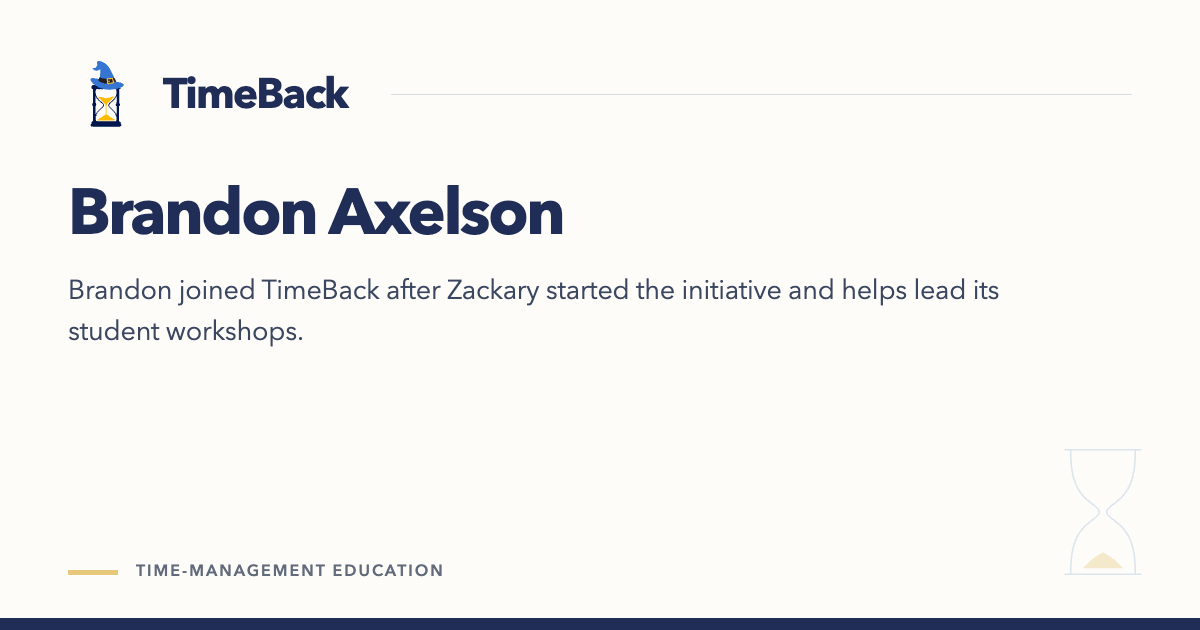
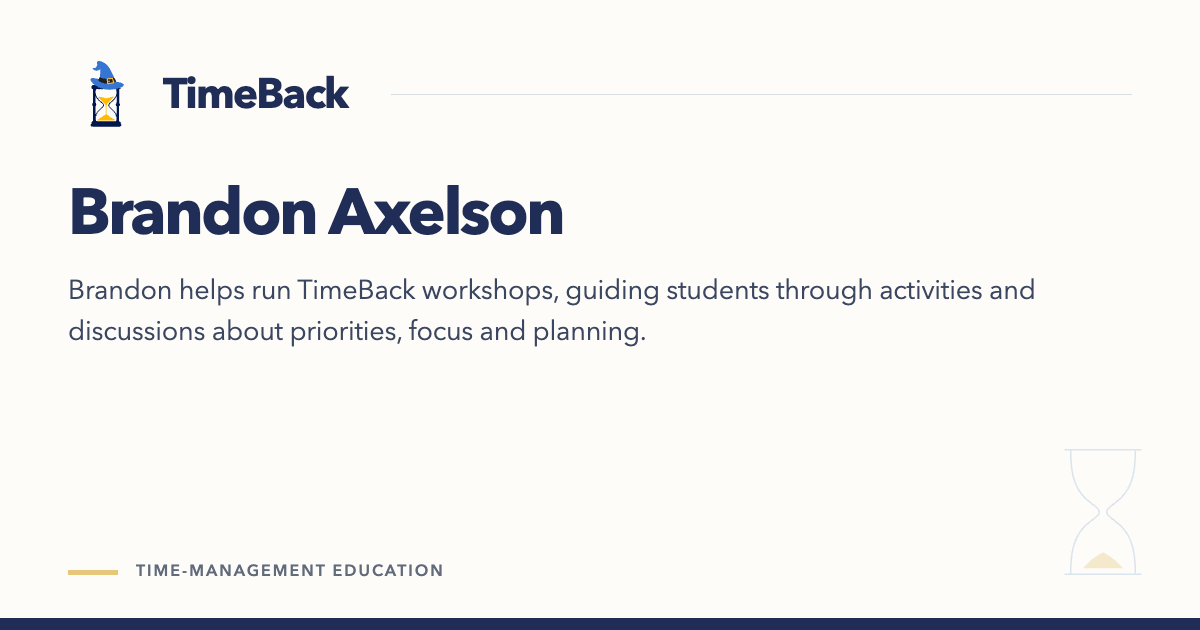
Update team roles and add Eric and Logan

Changed region(s): [[0.1542, 0.4222, 0.8633, 0.4825], [0.0617, 0.5127, 0.555, 0.5429]]

diff --git a/about/zackary-xu/index.html b/about/zackary-xu/index.html
@@ -2,7 +2,7 @@
 <html lang="en"><head><meta charset="utf-8"><meta name="viewport" content="width=device-width, initial-scale=1"><meta name="robots" content="index,follow,max-image-preview:large"><title>Zackary Xu · TimeBack</title><meta name="description" content="Zackary started TimeBack and brought together its team to make time-management education accessible to more young people."><meta name="theme-color" content="#202e57"><meta property="og:title" content="Zackary Xu · TimeBack"><meta property="og:description" content="Zackary started TimeBack and brought together its team to make time-management education accessible to more young people."><meta property="og:type" content="website"><link rel="icon" type="image/svg+xml" href="/assets/timeback-logo.svg"><link rel="stylesheet" href="/assets/site.css?v=ac8a8d66ccf2"><script src="/assets/site.js?v=d495cea66d2d" defer></script><meta property="og:site_name" content="TimeBack"><meta property="og:locale" content="en_US"><meta property="og:image" content="https://jointimeback.org/assets/social/about-zackary-xu.png"><meta property="og:image:width" content="1200"><meta property="og:image:height" content="630"><meta property="og:image:type" content="image/png"><meta property="og:image:alt" content="Zackary Xu · TimeBack: Zackary started TimeBack and brought together its team to make time-management education accessible to more young people."><meta name="twitter:card" content="summary_large_image"><meta name="twitter:title" content="Zackary Xu · TimeBack"><meta name="twitter:description" content="Zackary started TimeBack and brought together its team to make time-management education accessible to more young people."><meta name="twitter:image" content="https://jointimeback.org/assets/social/about-zackary-xu.png"><meta name="twitter:image:alt" content="Zackary Xu · TimeBack: Zackary started TimeBack and brought together its team to make time-management education accessible to more young people."><link rel="icon" type="image/png" sizes="32x32" href="/assets/icons/favicon-32.png"><link rel="apple-touch-icon" sizes="180x180" href="/assets/icons/apple-touch-icon.png"><link rel="canonical" href="https://jointimeback.org/about/zackary-xu/"><meta property="og:url" content="https://jointimeback.org/about/zackary-xu/"><script type="application/ld+json">{"@context": "https://schema.org", "@graph": [{"@type": "Organization", "@id": "https://jointimeback.org/#organization", "name": "TimeBack", "url": "https://jointimeback.org/", "email": "zackaryxu@jointimeback.org", "logo": "https://jointimeback.org/assets/icons/organization.png"}, {"@type": "WebSite", "@id": "https://jointimeback.org/#website", "url": "https://jointimeback.org/", "name": "TimeBack", "publisher": {"@id": "https://jointimeback.org/#organization"}, "inLanguage": "en"}, {"@type": "WebPage", "@id": "https://jointimeback.org/about/zackary-xu/#webpage", "url": "https://jointimeback.org/about/zackary-xu/", "name": "Zackary Xu · TimeBack", "description": "Zackary started TimeBack and brought together its team to make time-management education accessible to more young people.", "isPartOf": {"@id": "https://jointimeback.org/#website"}, "about": {"@id": "https://jointimeback.org/#organization"}, "inLanguage": "en"}]}</script></head>
 <body class="page-about/zackary-xu"><a class="skip-link" href="#main">Skip to content</a>
 <header class="site-header"><div class="header-inner"><a class="brand" href="/" aria-label="TimeBack home"><img src="/assets/timeback-logo.svg" width="40" height="48" alt="">TimeBack</a><nav class="desktop-nav" aria-label="Main navigation"><a href="/about/" class="nav-section-current">Our Team</a><a href="/work/">Community Highlights</a><details class="nav-group"><summary>For Organizations<span class="nav-chevron" aria-hidden="true"></span></summary><div class="nav-submenu"><a href="/host/">Work with TimeBack</a><a href="/approach/">Our Approach</a></div></details><a href="/chapters/" class="nav-cta">Get Involved</a></nav><details class="mobile-menu"><summary>Menu</summary><nav aria-label="Mobile navigation"><a href="/about/" class="nav-section-current">Our Team</a><a href="/work/">Community Highlights</a><details class="nav-group"><summary>For Organizations<span class="nav-chevron" aria-hidden="true"></span></summary><div class="nav-submenu"><a href="/host/">Work with TimeBack</a><a href="/approach/">Our Approach</a></div></details><a href="/chapters/" class="nav-cta">Get Involved</a></nav></details></div></header>
-<main id="main"><header class="page-intro wrap"><a class="back-link" href="/about/">← Our Team</a><h1>Zackary Xu</h1><p class="lead">Founder</p></header><div class="page-content wrap"><section class="prose-section profile-introduction"><div><div class="person-portrait"><div class="photo-window photo-window--portrait" data-photo="zackary-xu" style="--photo-ratio:4/5;--photo-x:50%;--photo-y:50%;--photo-zoom:1;--photo-grade:brightness(1) contrast(1) saturate(1)"><img class="editorial-image" src="/assets/photos/zackary-xu-640.webp" srcset="/assets/photos/zackary-xu-320.webp 320w, /assets/photos/zackary-xu-640.webp 640w, /assets/photos/zackary-xu-1122.webp 1122w" sizes="300px" width="640" height="800" alt="Zackary Xu, founder of TimeBack." loading="lazy" decoding="async"></div></div><h2>At TimeBack</h2></div><div class="reading-copy"><p>Zackary started TimeBack and brought together its team to make time-management education accessible to more young people.</p><p>He works with the team to bring free time-management workshops into school and community settings.</p><div class="action-row"><a class="text-link" href="mailto:zackaryxu@jointimeback.org?subject=TimeBack%20inquiry&amp;body=Hi%20Zackary%2C%0D%0A%0D%0AI%20came%20across%20the%20TimeBack%20website%20and%20would%20like%20to%20learn%20more.%20Could%20we%20connect%3F%0D%0A%0D%0AThanks%21">Contact Zackary</a></div></div></section><section class="profile-perspective" aria-label="A perspective from Zackary Xu"><figure class="founder-quote"><blockquote><p>“Time management takes practice. It’s about making time for the goals and people you care about, and building habits that help you follow through on your responsibilities.”</p></blockquote><figcaption>Zackary Xu</figcaption></figure></section><section class="prose-section profile-story"><h2>How TimeBack began</h2><div class="reading-copy"><p>TimeBack began with the idea that young people should have opportunities to learn how to manage their time, through practice and conversations with peers.</p><p>Zackary started TimeBack at Carlmont High School in 2026. Brandon Axelson joined him afterward. Zackary brought together a team to carry the workshops into school and community settings.</p></div></section><section class="prose-section"><h2>Work with the team.</h2><ul class="quiet-list"><li><a href="/work/redwood-city-library/#rwc-2026-09-10">Redwood City Public Library</a><br><span class="venue-meta">September 10, 2026</span></li><li><a href="/work/carlmont/#carlmont-spring-2026">Carlmont High School</a><br><span class="venue-meta">Spring 2026</span></li></ul></section><p class="note profile-recognition">In 2026, Zackary received a prize in Carlmont’s Youth Engagement Capacity Building pitch competition. <a href="https://scotscoop.com/carlmont-ptsa-reels-in-community-change-with-shark-tank-competition/" target="_blank" rel="noopener">Scot Scoop’s coverage of the competition <span class="link-arrow" aria-hidden="true"><svg viewBox="0 0 24 24" width="20" height="20" focusable="false" fill="none" stroke="currentColor" stroke-width="1.6" stroke-linecap="round" stroke-linejoin="round"><path d="M6 18 18 6M6 6h12v12"/></svg></span></a></p></div></main>
+<main id="main"><header class="page-intro wrap"><a class="back-link" href="/about/">← Our Team</a><h1>Zackary Xu</h1><p class="lead">Founder</p></header><div class="page-content wrap"><section class="prose-section profile-introduction"><div><div class="person-portrait"><div class="photo-window photo-window--portrait" data-photo="zackary-xu" style="--photo-ratio:4/5;--photo-x:50%;--photo-y:50%;--photo-zoom:1;--photo-grade:brightness(1) contrast(1) saturate(1)"><img class="editorial-image" src="/assets/photos/zackary-xu-640.webp" srcset="/assets/photos/zackary-xu-320.webp 320w, /assets/photos/zackary-xu-640.webp 640w, /assets/photos/zackary-xu-1122.webp 1122w" sizes="300px" width="640" height="800" alt="Zackary Xu, founder of TimeBack." loading="lazy" decoding="async"></div></div><h2>At TimeBack</h2></div><div class="reading-copy"><p>Zackary started TimeBack and brought together its team to make time-management education accessible to more young people.</p><p>He works with the team to bring free time-management workshops into school and community settings.</p><div class="action-row"><a class="text-link" href="mailto:zackaryxu@jointimeback.org?subject=TimeBack%20inquiry&amp;body=Hi%20Zackary%2C%0D%0A%0D%0AI%20came%20across%20the%20TimeBack%20website%20and%20would%20like%20to%20learn%20more.%20Could%20we%20connect%3F%0D%0A%0D%0AThanks%21">Contact Zackary</a></div></div></section><section class="profile-perspective" aria-label="A perspective from Zackary Xu"><figure class="founder-quote"><blockquote><p>“Time management takes practice. It’s about making time for the goals and people you care about, and building habits that help you follow through on your responsibilities.”</p></blockquote><figcaption>Zackary Xu</figcaption></figure></section><section class="prose-section profile-story"><h2>How TimeBack began</h2><div class="reading-copy"><p>TimeBack began with the idea that young people should have opportunities to learn how to manage their time, through practice and conversations with peers.</p><p>Zackary founded TimeBack at Carlmont High School in 2026 and assembled a team to bring its workshops into schools and communities.</p></div></section><section class="prose-section"><h2>Work with the team.</h2><ul class="quiet-list"><li><a href="/work/redwood-city-library/#rwc-2026-09-10">Redwood City Public Library</a><br><span class="venue-meta">September 10, 2026</span></li><li><a href="/work/carlmont/#carlmont-spring-2026">Carlmont High School</a><br><span class="venue-meta">Spring 2026</span></li></ul></section><p class="note profile-recognition">In 2026, Zackary received a prize in Carlmont’s Youth Engagement Capacity Building pitch competition. <a href="https://scotscoop.com/carlmont-ptsa-reels-in-community-change-with-shark-tank-competition/" target="_blank" rel="noopener">Scot Scoop’s coverage of the competition <span class="link-arrow" aria-hidden="true"><svg viewBox="0 0 24 24" width="20" height="20" focusable="false" fill="none" stroke="currentColor" stroke-width="1.6" stroke-linecap="round" stroke-linejoin="round"><path d="M6 18 18 6M6 6h12v12"/></svg></span></a></p></div></main>
 <footer class="site-footer"><div class="footer-inner wrap"><a class="brand footer-brand" href="/"><img src="/assets/timeback-logo.svg" width="30" height="36" alt="">TimeBack</a><nav class="footer-links" aria-label="Footer"><a href="/about/">Our Team</a><a href="/work/">Community Highlights</a><a href="/host/">For Organizations</a><a href="/chapters/">Get Involved</a><a href="mailto:zackaryxu@jointimeback.org?subject=TimeBack%20inquiry&amp;body=Hi%20Zackary%2C%0D%0A%0D%0AI%20came%20across%20the%20TimeBack%20website%20and%20would%20like%20to%20learn%20more.%20Could%20we%20connect%3F%0D%0A%0D%0AThanks%21">Contact</a></nav></div></footer><dialog class="contact-panel" id="contact-panel" aria-labelledby="contact-panel-title" aria-describedby="contact-panel-description">
   <div class="contact-panel-heading">
     <h2 id="contact-panel-title">Contact TimeBack</h2>

diff --git a/about/index.html b/about/index.html
@@ -1,9 +1,9 @@
 <!doctype html>
-<html lang="en"><head><meta charset="utf-8"><meta name="viewport" content="width=device-width, initial-scale=1"><meta name="robots" content="index,follow,max-image-preview:large"><title>Our Team · TimeBack</title><meta name="description" content="Meet the students behind TimeBack, including founder Zackary Xu and cofounder Brandon Axelson."><meta name="theme-color" content="#202e57"><meta property="og:title" content="Our Team · TimeBack"><meta property="og:description" content="Meet the students behind TimeBack, including founder Zackary Xu and cofounder Brandon Axelson."><meta property="og:type" content="website"><link rel="icon" type="image/svg+xml" href="/assets/timeback-logo.svg"><link rel="stylesheet" href="/assets/site.css?v=ac8a8d66ccf2"><script src="/assets/site.js?v=d495cea66d2d" defer></script><meta property="og:site_name" content="TimeBack"><meta property="og:locale" content="en_US"><meta property="og:image" content="https://jointimeback.org/assets/social/about.png"><meta property="og:image:width" content="1200"><meta property="og:image:height" content="630"><meta property="og:image:type" content="image/png"><meta property="og:image:alt" content="Our Team · TimeBack: Meet the students behind TimeBack, including founder Zackary Xu and cofounder Brandon Axelson."><meta name="twitter:card" content="summary_large_image"><meta name="twitter:title" content="Our Team · TimeBack"><meta name="twitter:description" content="Meet the students behind TimeBack, including founder Zackary Xu and cofounder Brandon Axelson."><meta name="twitter:image" content="https://jointimeback.org/assets/social/about.png"><meta name="twitter:image:alt" content="Our Team · TimeBack: Meet the students behind TimeBack, including founder Zackary Xu and cofounder Brandon Axelson."><link rel="icon" type="image/png" sizes="32x32" href="/assets/icons/favicon-32.png"><link rel="apple-touch-icon" sizes="180x180" href="/assets/icons/apple-touch-icon.png"><link rel="canonical" href="https://jointimeback.org/about/"><meta property="og:url" content="https://jointimeback.org/about/"><script type="application/ld+json">{"@context": "https://schema.org", "@graph": [{"@type": "Organization", "@id": "https://jointimeback.org/#organization", "name": "TimeBack", "url": "https://jointimeback.org/", "email": "zackaryxu@jointimeback.org", "logo": "https://jointimeback.org/assets/icons/organization.png"}, {"@type": "WebSite", "@id": "https://jointimeback.org/#website", "url": "https://jointimeback.org/", "name": "TimeBack", "publisher": {"@id": "https://jointimeback.org/#organization"}, "inLanguage": "en"}, {"@type": "WebPage", "@id": "https://jointimeback.org/about/#webpage", "url": "https://jointimeback.org/about/", "name": "Our Team · TimeBack", "description": "Meet the students behind TimeBack, including founder Zackary Xu and cofounder Brandon Axelson.", "isPartOf": {"@id": "https://jointimeback.org/#website"}, "about": {"@id": "https://jointimeback.org/#organization"}, "inLanguage": "en"}]}</script></head>
+<html lang="en"><head><meta charset="utf-8"><meta name="viewport" content="width=device-width, initial-scale=1"><meta name="robots" content="index,follow,max-image-preview:large"><title>Our Team · TimeBack</title><meta name="description" content="Meet the team bringing TimeBack’s time-management education to schools and communities."><meta name="theme-color" content="#202e57"><meta property="og:title" content="Our Team · TimeBack"><meta property="og:description" content="Meet the team bringing TimeBack’s time-management education to schools and communities."><meta property="og:type" content="website"><link rel="icon" type="image/svg+xml" href="/assets/timeback-logo.svg"><link rel="stylesheet" href="/assets/site.css?v=ac8a8d66ccf2"><script src="/assets/site.js?v=d495cea66d2d" defer></script><meta property="og:site_name" content="TimeBack"><meta property="og:locale" content="en_US"><meta property="og:image" content="https://jointimeback.org/assets/social/about.png"><meta property="og:image:width" content="1200"><meta property="og:image:height" content="630"><meta property="og:image:type" content="image/png"><meta property="og:image:alt" content="Our Team · TimeBack: Meet the team bringing TimeBack’s time-management education to schools and communities."><meta name="twitter:card" content="summary_large_image"><meta name="twitter:title" content="Our Team · TimeBack"><meta name="twitter:description" content="Meet the team bringing TimeBack’s time-management education to schools and communities."><meta name="twitter:image" content="https://jointimeback.org/assets/social/about.png"><meta name="twitter:image:alt" content="Our Team · TimeBack: Meet the team bringing TimeBack’s time-management education to schools and communities."><link rel="icon" type="image/png" sizes="32x32" href="/assets/icons/favicon-32.png"><link rel="apple-touch-icon" sizes="180x180" href="/assets/icons/apple-touch-icon.png"><link rel="canonical" href="https://jointimeback.org/about/"><meta property="og:url" content="https://jointimeback.org/about/"><script type="application/ld+json">{"@context": "https://schema.org", "@graph": [{"@type": "Organization", "@id": "https://jointimeback.org/#organization", "name": "TimeBack", "url": "https://jointimeback.org/", "email": "zackaryxu@jointimeback.org", "logo": "https://jointimeback.org/assets/icons/organization.png"}, {"@type": "WebSite", "@id": "https://jointimeback.org/#website", "url": "https://jointimeback.org/", "name": "TimeBack", "publisher": {"@id": "https://jointimeback.org/#organization"}, "inLanguage": "en"}, {"@type": "WebPage", "@id": "https://jointimeback.org/about/#webpage", "url": "https://jointimeback.org/about/", "name": "Our Team · TimeBack", "description": "Meet the team bringing TimeBack’s time-management education to schools and communities.", "isPartOf": {"@id": "https://jointimeback.org/#website"}, "about": {"@id": "https://jointimeback.org/#organization"}, "inLanguage": "en"}]}</script></head>
 <body class="page-about"><a class="skip-link" href="#main">Skip to content</a>
 <header class="site-header"><div class="header-inner"><a class="brand" href="/" aria-label="TimeBack home"><img src="/assets/timeback-logo.svg" width="40" height="48" alt="">TimeBack</a><nav class="desktop-nav" aria-label="Main navigation"><a href="/about/" aria-current="page">Our Team</a><a href="/work/">Community Highlights</a><details class="nav-group"><summary>For Organizations<span class="nav-chevron" aria-hidden="true"></span></summary><div class="nav-submenu"><a href="/host/">Work with TimeBack</a><a href="/approach/">Our Approach</a></div></details><a href="/chapters/" class="nav-cta">Get Involved</a></nav><details class="mobile-menu"><summary>Menu</summary><nav aria-label="Mobile navigation"><a href="/about/" aria-current="page">Our Team</a><a href="/work/">Community Highlights</a><details class="nav-group"><summary>For Organizations<span class="nav-chevron" aria-hidden="true"></span></summary><div class="nav-submenu"><a href="/host/">Work with TimeBack</a><a href="/approach/">Our Approach</a></div></details><a href="/chapters/" class="nav-cta">Get Involved</a></nav></details></div></header>
 <main id="main"><header class="page-intro wrap"><h1>Our Team</h1><p class="lead">Meet the students bringing time-management education to schools and communities.</p></header><div class="page-content wrap"><section class="team-directory" aria-label="People at TimeBack">
-  <div class="team-grid"><article class="team-card" aria-labelledby="person-zackary-xu"><a class="team-profile" href="/about/zackary-xu/" aria-label="View Zackary Xu’s profile"><div class="person-portrait"><div class="photo-window photo-window--portrait" data-photo="zackary-xu" style="--photo-ratio:4/5;--photo-x:50%;--photo-y:50%;--photo-zoom:1;--photo-grade:brightness(1) contrast(1) saturate(1)"><img class="editorial-image" src="/assets/photos/zackary-xu-640.webp" srcset="/assets/photos/zackary-xu-320.webp 320w, /assets/photos/zackary-xu-640.webp 640w, /assets/photos/zackary-xu-1122.webp 1122w" sizes="(max-width: 480px) 44vw, (max-width: 760px) 46vw, 300px" width="640" height="800" alt="Zackary Xu, founder of TimeBack." loading="lazy" decoding="async"></div></div><div class="team-card-identity"><h2 id="person-zackary-xu">Zackary Xu</h2><p class="person-role">Founder</p></div></a></article><article class="team-card" aria-labelledby="person-brandon-axelson"><a class="team-profile" href="/about/brandon-axelson/" aria-label="View Brandon Axelson’s profile"><div class="person-monogram" aria-hidden="true">BA</div><div class="team-card-identity"><h2 id="person-brandon-axelson">Brandon Axelson</h2><p class="person-role">Cofounder</p></div></a></article></div>
+  <div class="team-grid"><article class="team-card" aria-labelledby="person-zackary-xu"><a class="team-profile" href="/about/zackary-xu/" aria-label="View Zackary Xu’s profile"><div class="person-portrait"><div class="photo-window photo-window--portrait" data-photo="zackary-xu" style="--photo-ratio:4/5;--photo-x:50%;--photo-y:50%;--photo-zoom:1;--photo-grade:brightness(1) contrast(1) saturate(1)"><img class="editorial-image" src="/assets/photos/zackary-xu-640.webp" srcset="/assets/photos/zackary-xu-320.webp 320w, /assets/photos/zackary-xu-640.webp 640w, /assets/photos/zackary-xu-1122.webp 1122w" sizes="(max-width: 480px) 44vw, (max-width: 760px) 46vw, 300px" width="640" height="800" alt="Zackary Xu, founder of TimeBack." loading="lazy" decoding="async"></div></div><div class="team-card-identity"><h2 id="person-zackary-xu">Zackary Xu</h2><p class="person-role">Founder</p></div></a></article><article class="team-card" aria-labelledby="person-brandon-axelson"><a class="team-profile" href="/about/brandon-axelson/" aria-label="View Brandon Axelson’s profile"><div class="person-monogram" aria-hidden="true">BA</div><div class="team-card-identity"><h2 id="person-brandon-axelson">Brandon Axelson</h2><p class="person-role">Team Member</p></div></a></article><article class="team-card" aria-labelledby="person-eric"><a class="team-profile" href="/about/eric/" aria-label="View Eric’s profile"><div class="person-monogram" aria-hidden="true">E</div><div class="team-card-identity"><h2 id="person-eric">Eric</h2><p class="person-role">Team Member</p></div></a></article><article class="team-card" aria-labelledby="person-logan"><a class="team-profile" href="/about/logan/" aria-label="View Logan’s profile"><div class="person-monogram" aria-hidden="true">L</div><div class="team-card-identity"><h2 id="person-logan">Logan</h2><p class="person-role">Team Member</p></div></a></article></div>
 </section>
 </div></main>
 <footer class="site-footer"><div class="footer-inner wrap"><a class="brand footer-brand" href="/"><img src="/assets/timeback-logo.svg" width="30" height="36" alt="">TimeBack</a><nav class="footer-links" aria-label="Footer"><a href="/about/">Our Team</a><a href="/work/">Community Highlights</a><a href="/host/">For Organizations</a><a href="/chapters/">Get Involved</a><a href="mailto:zackaryxu@jointimeback.org?subject=TimeBack%20inquiry&amp;body=Hi%20Zackary%2C%0D%0A%0D%0AI%20came%20across%20the%20TimeBack%20website%20and%20would%20like%20to%20learn%20more.%20Could%20we%20connect%3F%0D%0A%0D%0AThanks%21">Contact</a></nav></div></footer><dialog class="contact-panel" id="contact-panel" aria-labelledby="contact-panel-title" aria-describedby="contact-panel-description">

diff --git a/about/brandon-axelson/index.html b/about/brandon-axelson/index.html
@@ -1,8 +1,8 @@
 <!doctype html>
-<html lang="en"><head><meta charset="utf-8"><meta name="viewport" content="width=device-width, initial-scale=1"><meta name="robots" content="index,follow,max-image-preview:large"><title>Brandon Axelson · TimeBack</title><meta name="description" content="Brandon joined TimeBack after Zackary started the initiative and helps lead its student workshops."><meta name="theme-color" content="#202e57"><meta property="og:title" content="Brandon Axelson · TimeBack"><meta property="og:description" content="Brandon joined TimeBack after Zackary started the initiative and helps lead its student workshops."><meta property="og:type" content="website"><link rel="icon" type="image/svg+xml" href="/assets/timeback-logo.svg"><link rel="stylesheet" href="/assets/site.css?v=ac8a8d66ccf2"><script src="/assets/site.js?v=d495cea66d2d" defer></script><meta property="og:site_name" content="TimeBack"><meta property="og:locale" content="en_US"><meta property="og:image" content="https://jointimeback.org/assets/social/about-brandon-axelson.png"><meta property="og:image:width" content="1200"><meta property="og:image:height" content="630"><meta property="og:image:type" content="image/png"><meta property="og:image:alt" content="Brandon Axelson · TimeBack: Brandon joined TimeBack after Zackary started the initiative and helps lead its student workshops."><meta name="twitter:card" content="summary_large_image"><meta name="twitter:title" content="Brandon Axelson · TimeBack"><meta name="twitter:description" content="Brandon joined TimeBack after Zackary started the initiative and helps lead its student workshops."><meta name="twitter:image" content="https://jointimeback.org/assets/social/about-brandon-axelson.png"><meta name="twitter:image:alt" content="Brandon Axelson · TimeBack: Brandon joined TimeBack after Zackary started the initiative and helps lead its student workshops."><link rel="icon" type="image/png" sizes="32x32" href="/assets/icons/favicon-32.png"><link rel="apple-touch-icon" sizes="180x180" href="/assets/icons/apple-touch-icon.png"><link rel="canonical" href="https://jointimeback.org/about/brandon-axelson/"><meta property="og:url" content="https://jointimeback.org/about/brandon-axelson/"><script type="application/ld+json">{"@context": "https://schema.org", "@graph": [{"@type": "Organization", "@id": "https://jointimeback.org/#organization", "name": "TimeBack", "url": "https://jointimeback.org/", "email": "zackaryxu@jointimeback.org", "logo": "https://jointimeback.org/assets/icons/organization.png"}, {"@type": "WebSite", "@id": "https://jointimeback.org/#website", "url": "https://jointimeback.org/", "name": "TimeBack", "publisher": {"@id": "https://jointimeback.org/#organization"}, "inLanguage": "en"}, {"@type": "WebPage", "@id": "https://jointimeback.org/about/brandon-axelson/#webpage", "url": "https://jointimeback.org/about/brandon-axelson/", "name": "Brandon Axelson · TimeBack", "description": "Brandon joined TimeBack after Zackary started the initiative and helps lead its student workshops.", "isPartOf": {"@id": "https://jointimeback.org/#website"}, "about": {"@id": "https://jointimeback.org/#organization"}, "inLanguage": "en"}]}</script></head>
+<html lang="en"><head><meta charset="utf-8"><meta name="viewport" content="width=device-width, initial-scale=1"><meta name="robots" content="index,follow,max-image-preview:large"><title>Brandon Axelson · TimeBack</title><meta name="description" content="Brandon helps run TimeBack workshops, guiding students through activities and discussions about priorities, focus and planning."><meta name="theme-color" content="#202e57"><meta property="og:title" content="Brandon Axelson · TimeBack"><meta property="og:description" content="Brandon helps run TimeBack workshops, guiding students through activities and discussions about priorities, focus and planning."><meta property="og:type" content="website"><link rel="icon" type="image/svg+xml" href="/assets/timeback-logo.svg"><link rel="stylesheet" href="/assets/site.css?v=ac8a8d66ccf2"><script src="/assets/site.js?v=d495cea66d2d" defer></script><meta property="og:site_name" content="TimeBack"><meta property="og:locale" content="en_US"><meta property="og:image" content="https://jointimeback.org/assets/social/about-brandon-axelson.png"><meta property="og:image:width" content="1200"><meta property="og:image:height" content="630"><meta property="og:image:type" content="image/png"><meta property="og:image:alt" content="Brandon Axelson · TimeBack: Brandon helps run TimeBack workshops, guiding students through activities and discussions about priorities, focus and planning."><meta name="twitter:card" content="summary_large_image"><meta name="twitter:title" content="Brandon Axelson · TimeBack"><meta name="twitter:description" content="Brandon helps run TimeBack workshops, guiding students through activities and discussions about priorities, focus and planning."><meta name="twitter:image" content="https://jointimeback.org/assets/social/about-brandon-axelson.png"><meta name="twitter:image:alt" content="Brandon Axelson · TimeBack: Brandon helps run TimeBack workshops, guiding students through activities and discussions about priorities, focus and planning."><link rel="icon" type="image/png" sizes="32x32" href="/assets/icons/favicon-32.png"><link rel="apple-touch-icon" sizes="180x180" href="/assets/icons/apple-touch-icon.png"><link rel="canonical" href="https://jointimeback.org/about/brandon-axelson/"><meta property="og:url" content="https://jointimeback.org/about/brandon-axelson/"><script type="application/ld+json">{"@context": "https://schema.org", "@graph": [{"@type": "Organization", "@id": "https://jointimeback.org/#organization", "name": "TimeBack", "url": "https://jointimeback.org/", "email": "zackaryxu@jointimeback.org", "logo": "https://jointimeback.org/assets/icons/organization.png"}, {"@type": "WebSite", "@id": "https://jointimeback.org/#website", "url": "https://jointimeback.org/", "name": "TimeBack", "publisher": {"@id": "https://jointimeback.org/#organization"}, "inLanguage": "en"}, {"@type": "WebPage", "@id": "https://jointimeback.org/about/brandon-axelson/#webpage", "url": "https://jointimeback.org/about/brandon-axelson/", "name": "Brandon Axelson · TimeBack", "description": "Brandon helps run TimeBack workshops, guiding students through activities and discussions about priorities, focus and planning.", "isPartOf": {"@id": "https://jointimeback.org/#website"}, "about": {"@id": "https://jointimeback.org/#organization"}, "inLanguage": "en"}]}</script></head>
 <body class="page-about/brandon-axelson"><a class="skip-link" href="#main">Skip to content</a>
 <header class="site-header"><div class="header-inner"><a class="brand" href="/" aria-label="TimeBack home"><img src="/assets/timeback-logo.svg" width="40" height="48" alt="">TimeBack</a><nav class="desktop-nav" aria-label="Main navigation"><a href="/about/" class="nav-section-current">Our Team</a><a href="/work/">Community Highlights</a><details class="nav-group"><summary>For Organizations<span class="nav-chevron" aria-hidden="true"></span></summary><div class="nav-submenu"><a href="/host/">Work with TimeBack</a><a href="/approach/">Our Approach</a></div></details><a href="/chapters/" class="nav-cta">Get Involved</a></nav><details class="mobile-menu"><summary>Menu</summary><nav aria-label="Mobile navigation"><a href="/about/" class="nav-section-current">Our Team</a><a href="/work/">Community Highlights</a><details class="nav-group"><summary>For Organizations<span class="nav-chevron" aria-hidden="true"></span></summary><div class="nav-submenu"><a href="/host/">Work with TimeBack</a><a href="/approach/">Our Approach</a></div></details><a href="/chapters/" class="nav-cta">Get Involved</a></nav></details></div></header>
-<main id="main"><header class="page-intro wrap"><a class="back-link" href="/about/">← Our Team</a><h1>Brandon Axelson</h1><p class="lead">Cofounder</p></header><div class="page-content wrap"><section class="prose-section profile-introduction"><div><h2>At TimeBack</h2></div><div class="reading-copy"><p>Brandon joined TimeBack after Zackary started the initiative and helps lead its student workshops.</p><p>As part of the founding team, he works with students through hands-on activities and conversations about priorities, focus and planning.</p></div></section><section class="prose-section"><h2>Work with the team.</h2><ul class="quiet-list"><li><a href="/work/redwood-city-library/#rwc-2026-09-10">Redwood City Public Library</a><br><span class="venue-meta">September 10, 2026</span></li><li><a href="/work/carlmont/#carlmont-spring-2026">Carlmont High School</a><br><span class="venue-meta">Spring 2026</span></li></ul></section></div></main>
+<main id="main"><header class="page-intro wrap"><a class="back-link" href="/about/">← Our Team</a><h1>Brandon Axelson</h1><p class="lead">Team Member</p></header><div class="page-content wrap"><section class="prose-section profile-introduction"><div><h2>At TimeBack</h2></div><div class="reading-copy"><p>Brandon helps run TimeBack workshops, guiding students through activities and discussions about priorities, focus and planning.</p></div></section><section class="prose-section"><h2>Work with the team.</h2><ul class="quiet-list"><li><a href="/work/redwood-city-library/#rwc-2026-09-10">Redwood City Public Library</a><br><span class="venue-meta">September 10, 2026</span></li><li><a href="/work/carlmont/#carlmont-spring-2026">Carlmont High School</a><br><span class="venue-meta">Spring 2026</span></li></ul></section></div></main>
 <footer class="site-footer"><div class="footer-inner wrap"><a class="brand footer-brand" href="/"><img src="/assets/timeback-logo.svg" width="30" height="36" alt="">TimeBack</a><nav class="footer-links" aria-label="Footer"><a href="/about/">Our Team</a><a href="/work/">Community Highlights</a><a href="/host/">For Organizations</a><a href="/chapters/">Get Involved</a><a href="mailto:zackaryxu@jointimeback.org?subject=TimeBack%20inquiry&amp;body=Hi%20Zackary%2C%0D%0A%0D%0AI%20came%20across%20the%20TimeBack%20website%20and%20would%20like%20to%20learn%20more.%20Could%20we%20connect%3F%0D%0A%0D%0AThanks%21">Contact</a></nav></div></footer><dialog class="contact-panel" id="contact-panel" aria-labelledby="contact-panel-title" aria-describedby="contact-panel-description">
   <div class="contact-panel-heading">
     <h2 id="contact-panel-title">Contact TimeBack</h2>

diff --git a/about/logan/index.html b/about/logan/index.html
@@ -1,0 +1,22 @@
+<!doctype html>
+<html lang="en"><head><meta charset="utf-8"><meta name="viewport" content="width=device-width, initial-scale=1"><meta name="robots" content="index,follow,max-image-preview:large"><title>Logan · TimeBack</title><meta name="description" content="Logan is a member of the TimeBack team."><meta name="theme-color" content="#202e57"><meta property="og:title" content="Logan · TimeBack"><meta property="og:description" content="Logan is a member of the TimeBack team."><meta property="og:type" content="website"><link rel="icon" type="image/svg+xml" href="/assets/timeback-logo.svg"><link rel="stylesheet" href="/assets/site.css?v=ac8a8d66ccf2"><script src="/assets/site.js?v=d495cea66d2d" defer></script><meta property="og:site_name" content="TimeBack"><meta property="og:locale" content="en_US"><meta property="og:image" content="https://jointimeback.org/assets/social/about-logan.png"><meta property="og:image:width" content="1200"><meta property="og:image:height" content="630"><meta property="og:image:type" content="image/png"><meta property="og:image:alt" content="Logan · TimeBack: Logan is a member of the TimeBack team."><meta name="twitter:card" content="summary_large_image"><meta name="twitter:title" content="Logan · TimeBack"><meta name="twitter:description" content="Logan is a member of the TimeBack team."><meta name="twitter:image" content="https://jointimeback.org/assets/social/about-logan.png"><meta name="twitter:image:alt" content="Logan · TimeBack: Logan is a member of the TimeBack team."><link rel="icon" type="image/png" sizes="32x32" href="/assets/icons/favicon-32.png"><link rel="apple-touch-icon" sizes="180x180" href="/assets/icons/apple-touch-icon.png"><link rel="canonical" href="https://jointimeback.org/about/logan/"><meta property="og:url" content="https://jointimeback.org/about/logan/"><script type="application/ld+json">{"@context": "https://schema.org", "@graph": [{"@type": "Organization", "@id": "https://jointimeback.org/#organization", "name": "TimeBack", "url": "https://jointimeback.org/", "email": "zackaryxu@jointimeback.org", "logo": "https://jointimeback.org/assets/icons/organization.png"}, {"@type": "WebSite", "@id": "https://jointimeback.org/#website", "url": "https://jointimeback.org/", "name": "TimeBack", "publisher": {"@id": "https://jointimeback.org/#organization"}, "inLanguage": "en"}, {"@type": "WebPage", "@id": "https://jointimeback.org/about/logan/#webpage", "url": "https://jointimeback.org/about/logan/", "name": "Logan · TimeBack", "description": "Logan is a member of the TimeBack team.", "isPartOf": {"@id": "https://jointimeback.org/#website"}, "about": {"@id": "https://jointimeback.org/#organization"}, "inLanguage": "en"}]}</script></head>
+<body class="page-about/logan"><a class="skip-link" href="#main">Skip to content</a>
+<header class="site-header"><div class="header-inner"><a class="brand" href="/" aria-label="TimeBack home"><img src="/assets/timeback-logo.svg" width="40" height="48" alt="">TimeBack</a><nav class="desktop-nav" aria-label="Main navigation"><a href="/about/" class="nav-section-current">Our Team</a><a href="/work/">Community Highlights</a><details class="nav-group"><summary>For Organizations<span class="nav-chevron" aria-hidden="true"></span></summary><div class="nav-submenu"><a href="/host/">Work with TimeBack</a><a href="/approach/">Our Approach</a></div></details><a href="/chapters/" class="nav-cta">Get Involved</a></nav><details class="mobile-menu"><summary>Menu</summary><nav aria-label="Mobile navigation"><a href="/about/" class="nav-section-current">Our Team</a><a href="/work/">Community Highlights</a><details class="nav-group"><summary>For Organizations<span class="nav-chevron" aria-hidden="true"></span></summary><div class="nav-submenu"><a href="/host/">Work with TimeBack</a><a href="/approach/">Our Approach</a></div></details><a href="/chapters/" class="nav-cta">Get Involved</a></nav></details></div></header>
+<main id="main"><header class="page-intro wrap"><a class="back-link" href="/about/">← Our Team</a><h1>Logan</h1><p class="lead">Team Member</p></header><div class="page-content wrap"><section class="prose-section profile-introduction"><div><h2>At TimeBack</h2></div><div class="reading-copy"><p>Logan is a member of the TimeBack team.</p></div></section></div></main>
+<footer class="site-footer"><div class="footer-inner wrap"><a class="brand footer-brand" href="/"><img src="/assets/timeback-logo.svg" width="30" height="36" alt="">TimeBack</a><nav class="footer-links" aria-label="Footer"><a href="/about/">Our Team</a><a href="/work/">Community Highlights</a><a href="/host/">For Organizations</a><a href="/chapters/">Get Involved</a><a href="mailto:zackaryxu@jointimeback.org?subject=TimeBack%20inquiry&amp;body=Hi%20Zackary%2C%0D%0A%0D%0AI%20came%20across%20the%20TimeBack%20website%20and%20would%20like%20to%20learn%20more.%20Could%20we%20connect%3F%0D%0A%0D%0AThanks%21">Contact</a></nav></div></footer><dialog class="contact-panel" id="contact-panel" aria-labelledby="contact-panel-title" aria-describedby="contact-panel-description">
+  <div class="contact-panel-heading">
+    <h2 id="contact-panel-title">Contact TimeBack</h2>
+    <button type="button" class="contact-close" aria-label="Close contact panel" autofocus>×</button>
+  </div>
+  <p id="contact-panel-description">Your email opens with a short message ready to edit or send.</p>
+  <div class="contact-address-row">
+    <span class="contact-address">zackaryxu@jointimeback.org</span>
+    <button class="contact-copy" type="button">Copy email</button>
+  </div>
+  <div class="contact-options">
+    <a class="button contact-gmail" href="https://mail.google.com/mail/?view=cm&amp;fs=1&amp;to=zackaryxu%40jointimeback.org" target="_blank" rel="noopener noreferrer">Open Gmail <span class="link-arrow" aria-hidden="true"><svg viewBox="0 0 24 24" width="20" height="20" focusable="false" fill="none" stroke="currentColor" stroke-width="1.6" stroke-linecap="round" stroke-linejoin="round"><path d="M6 18 18 6M6 6h12v12"/></svg></span></a>
+    <a class="text-link contact-mail-app" href="mailto:zackaryxu@jointimeback.org?subject=TimeBack%20inquiry&amp;body=Hi%20Zackary%2C%0D%0A%0D%0AI%20came%20across%20the%20TimeBack%20website%20and%20would%20like%20to%20learn%20more.%20Could%20we%20connect%3F%0D%0A%0D%0AThanks%21">Use email app <span class="link-arrow" aria-hidden="true"><svg viewBox="0 0 24 24" width="20" height="20" focusable="false" fill="none" stroke="currentColor" stroke-width="1.6" stroke-linecap="round" stroke-linejoin="round"><path d="M6 18 18 6M6 6h12v12"/></svg></span></a>
+  </div>
+  <p class="contact-status" role="status" aria-live="polite"></p>
+</dialog>
+</body></html>

diff --git a/about/eric/index.html b/about/eric/index.html
@@ -1,0 +1,22 @@
+<!doctype html>
+<html lang="en"><head><meta charset="utf-8"><meta name="viewport" content="width=device-width, initial-scale=1"><meta name="robots" content="index,follow,max-image-preview:large"><title>Eric · TimeBack</title><meta name="description" content="Eric is a member of the TimeBack team."><meta name="theme-color" content="#202e57"><meta property="og:title" content="Eric · TimeBack"><meta property="og:description" content="Eric is a member of the TimeBack team."><meta property="og:type" content="website"><link rel="icon" type="image/svg+xml" href="/assets/timeback-logo.svg"><link rel="stylesheet" href="/assets/site.css?v=ac8a8d66ccf2"><script src="/assets/site.js?v=d495cea66d2d" defer></script><meta property="og:site_name" content="TimeBack"><meta property="og:locale" content="en_US"><meta property="og:image" content="https://jointimeback.org/assets/social/about-eric.png"><meta property="og:image:width" content="1200"><meta property="og:image:height" content="630"><meta property="og:image:type" content="image/png"><meta property="og:image:alt" content="Eric · TimeBack: Eric is a member of the TimeBack team."><meta name="twitter:card" content="summary_large_image"><meta name="twitter:title" content="Eric · TimeBack"><meta name="twitter:description" content="Eric is a member of the TimeBack team."><meta name="twitter:image" content="https://jointimeback.org/assets/social/about-eric.png"><meta name="twitter:image:alt" content="Eric · TimeBack: Eric is a member of the TimeBack team."><link rel="icon" type="image/png" sizes="32x32" href="/assets/icons/favicon-32.png"><link rel="apple-touch-icon" sizes="180x180" href="/assets/icons/apple-touch-icon.png"><link rel="canonical" href="https://jointimeback.org/about/eric/"><meta property="og:url" content="https://jointimeback.org/about/eric/"><script type="application/ld+json">{"@context": "https://schema.org", "@graph": [{"@type": "Organization", "@id": "https://jointimeback.org/#organization", "name": "TimeBack", "url": "https://jointimeback.org/", "email": "zackaryxu@jointimeback.org", "logo": "https://jointimeback.org/assets/icons/organization.png"}, {"@type": "WebSite", "@id": "https://jointimeback.org/#website", "url": "https://jointimeback.org/", "name": "TimeBack", "publisher": {"@id": "https://jointimeback.org/#organization"}, "inLanguage": "en"}, {"@type": "WebPage", "@id": "https://jointimeback.org/about/eric/#webpage", "url": "https://jointimeback.org/about/eric/", "name": "Eric · TimeBack", "description": "Eric is a member of the TimeBack team.", "isPartOf": {"@id": "https://jointimeback.org/#website"}, "about": {"@id": "https://jointimeback.org/#organization"}, "inLanguage": "en"}]}</script></head>
+<body class="page-about/eric"><a class="skip-link" href="#main">Skip to content</a>
+<header class="site-header"><div class="header-inner"><a class="brand" href="/" aria-label="TimeBack home"><img src="/assets/timeback-logo.svg" width="40" height="48" alt="">TimeBack</a><nav class="desktop-nav" aria-label="Main navigation"><a href="/about/" class="nav-section-current">Our Team</a><a href="/work/">Community Highlights</a><details class="nav-group"><summary>For Organizations<span class="nav-chevron" aria-hidden="true"></span></summary><div class="nav-submenu"><a href="/host/">Work with TimeBack</a><a href="/approach/">Our Approach</a></div></details><a href="/chapters/" class="nav-cta">Get Involved</a></nav><details class="mobile-menu"><summary>Menu</summary><nav aria-label="Mobile navigation"><a href="/about/" class="nav-section-current">Our Team</a><a href="/work/">Community Highlights</a><details class="nav-group"><summary>For Organizations<span class="nav-chevron" aria-hidden="true"></span></summary><div class="nav-submenu"><a href="/host/">Work with TimeBack</a><a href="/approach/">Our Approach</a></div></details><a href="/chapters/" class="nav-cta">Get Involved</a></nav></details></div></header>
+<main id="main"><header class="page-intro wrap"><a class="back-link" href="/about/">← Our Team</a><h1>Eric</h1><p class="lead">Team Member</p></header><div class="page-content wrap"><section class="prose-section profile-introduction"><div><h2>At TimeBack</h2></div><div class="reading-copy"><p>Eric is a member of the TimeBack team.</p></div></section></div></main>
+<footer class="site-footer"><div class="footer-inner wrap"><a class="brand footer-brand" href="/"><img src="/assets/timeback-logo.svg" width="30" height="36" alt="">TimeBack</a><nav class="footer-links" aria-label="Footer"><a href="/about/">Our Team</a><a href="/work/">Community Highlights</a><a href="/host/">For Organizations</a><a href="/chapters/">Get Involved</a><a href="mailto:zackaryxu@jointimeback.org?subject=TimeBack%20inquiry&amp;body=Hi%20Zackary%2C%0D%0A%0D%0AI%20came%20across%20the%20TimeBack%20website%20and%20would%20like%20to%20learn%20more.%20Could%20we%20connect%3F%0D%0A%0D%0AThanks%21">Contact</a></nav></div></footer><dialog class="contact-panel" id="contact-panel" aria-labelledby="contact-panel-title" aria-describedby="contact-panel-description">
+  <div class="contact-panel-heading">
+    <h2 id="contact-panel-title">Contact TimeBack</h2>
+    <button type="button" class="contact-close" aria-label="Close contact panel" autofocus>×</button>
+  </div>
+  <p id="contact-panel-description">Your email opens with a short message ready to edit or send.</p>
+  <div class="contact-address-row">
+    <span class="contact-address">zackaryxu@jointimeback.org</span>
+    <button class="contact-copy" type="button">Copy email</button>
+  </div>
+  <div class="contact-options">
+    <a class="button contact-gmail" href="https://mail.google.com/mail/?view=cm&amp;fs=1&amp;to=zackaryxu%40jointimeback.org" target="_blank" rel="noopener noreferrer">Open Gmail <span class="link-arrow" aria-hidden="true"><svg viewBox="0 0 24 24" width="20" height="20" focusable="false" fill="none" stroke="currentColor" stroke-width="1.6" stroke-linecap="round" stroke-linejoin="round"><path d="M6 18 18 6M6 6h12v12"/></svg></span></a>
+    <a class="text-link contact-mail-app" href="mailto:zackaryxu@jointimeback.org?subject=TimeBack%20inquiry&amp;body=Hi%20Zackary%2C%0D%0A%0D%0AI%20came%20across%20the%20TimeBack%20website%20and%20would%20like%20to%20learn%20more.%20Could%20we%20connect%3F%0D%0A%0D%0AThanks%21">Use email app <span class="link-arrow" aria-hidden="true"><svg viewBox="0 0 24 24" width="20" height="20" focusable="false" fill="none" stroke="currentColor" stroke-width="1.6" stroke-linecap="round" stroke-linejoin="round"><path d="M6 18 18 6M6 6h12v12"/></svg></span></a>
+  </div>
+  <p class="contact-status" role="status" aria-live="polite"></p>
+</dialog>
+</body></html>
